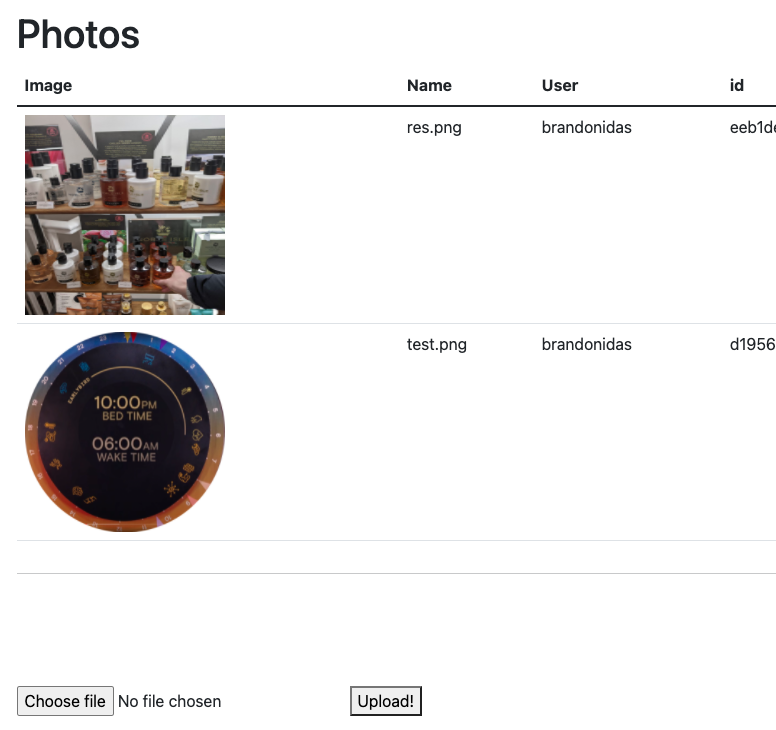
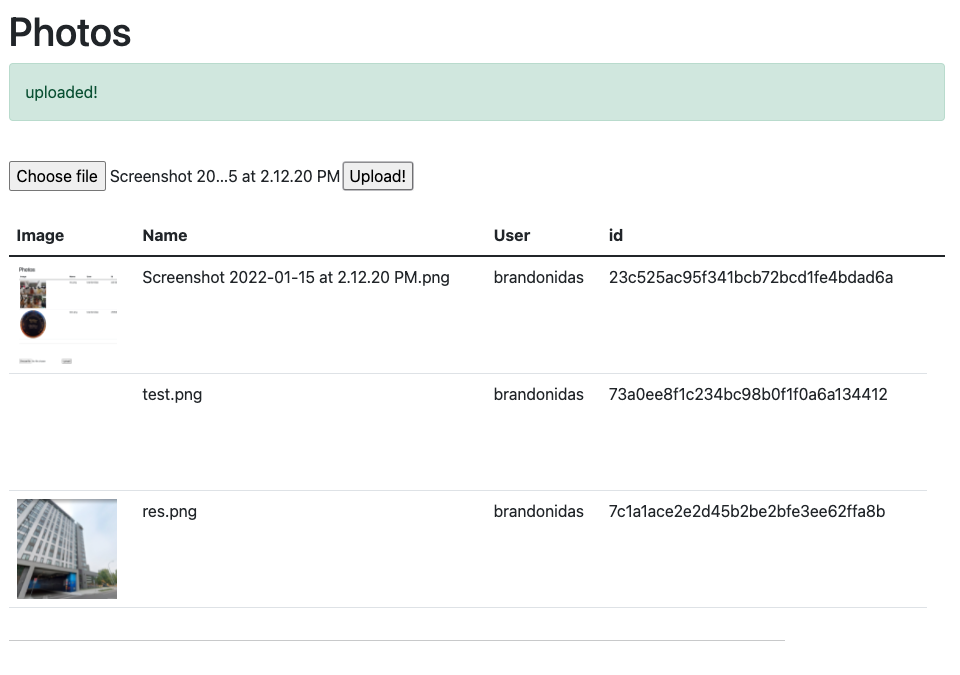
Made cosmetic changes

diff --git a/client/src/components/Photos.vue b/client/src/components/Photos.vue
@@ -1,6 +1,10 @@
 <template>
   <div class='container'>
     <h1>Photos</h1>
+    <alert :message='message' v-if='showMessage'></alert>
+    <input type='file' @change='onFileChanged' />
+    <button @click='onUpload'>Upload!</button>
+        <br /><br />
     <div v-for='(image, index) in images' :key='index'>
         <!-- http://127.0.0.1:5000/get-image/test.png -->
         <!-- <img src={{image}} width="100" height="100" /> -->
@@ -32,10 +36,6 @@
         <br /><br />
         <br />
         <br />
-        <input type='file' @change='onFileChanged' />
-        <button @click='onUpload'>Upload!</button>
-        <br /><br />
-                <alert :message='message' v-if='showMessage'></alert>
         <!-- <button
           type='button'
           class='btn btn-success btn-sm'
@@ -213,7 +213,7 @@ export default {
       const formData = new FormData();
       formData.append('myFile', this.selectedFiles[0]);
       axios.post(domain, formData).then(() => {
-        this.message = 'uploade';
+        this.message = 'uploaded!';
         this.showMessage = true;
         this.getImages();
       });

diff --git a/server/app.py b/server/app.py
@@ -70,7 +70,7 @@ def images():
     if request.method == 'GET':
         print(IMAGES)
         response_object = {'status': 'success'}
-        response_object['images'] = IMAGES
+        response_object['images'] = list(reversed(IMAGES))
         return response_object
 
 
